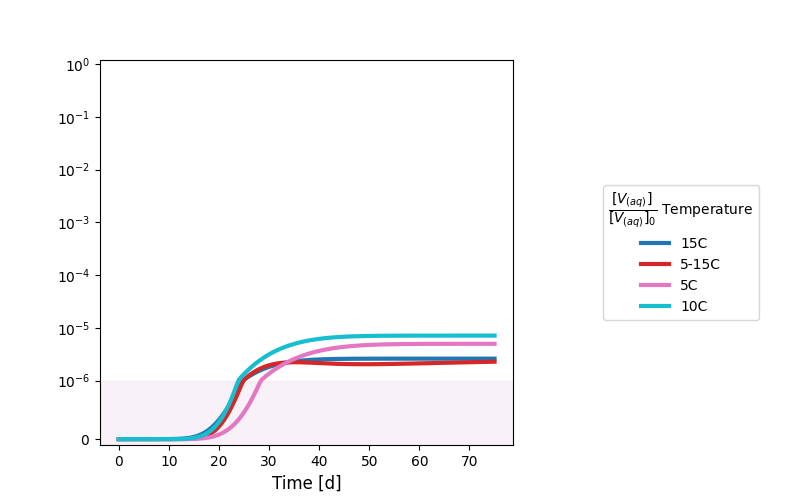
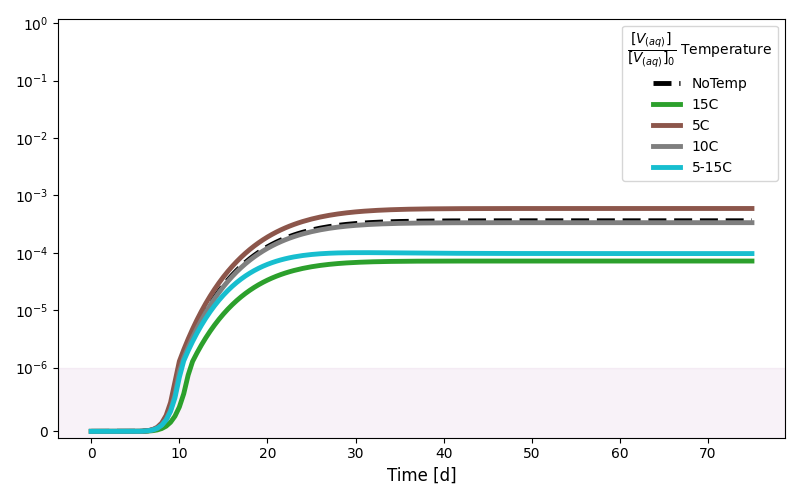
Updated thermal for constant viscosity and density

diff --git a/doeTests/3DCube_Thermal/miscellaneous/organizeResults.py b/doeTests/3DCube_Thermal/miscellaneous/organizeResults.py
@@ -16,7 +16,7 @@ TIME_COL_ID = 0
 # Fix those weird PFT headers
 system("./PFT2CSV.sh "+ FOLDER)
 fig = plt.figure(figsize=(8,5),facecolor="white")
-ax1 = plt.subplot2grid((2,3),(0,0),rowspan=2,colspan=2)
+ax1 = plt.subplot2grid((2,2),(0,0),rowspan=2,colspan=2)
 #ax2 = plt.subplot2grid((2,3),(1,0),rowspan=1,colspan=2,sharex=ax1)
 
 # Number of colors to plots
@@ -24,11 +24,20 @@ cmap = get_cmap(len(listdir(FOLDER)))
 
 i=0
 for f in listdir(FOLDER):
+  if "NoTemp" in f:
+    VAQ_COL_ID = 3
+    LS = 'dashed'
+    COLOR = 'black'
+  else:
+    VAQ_COL_ID = 8
+    LS = 'solid'
+    COLOR = cmap(i)
+  
   ObservationPoint = np.genfromtxt(FOLDER+"/"+f, delimiter=',', skip_header=1)
   Cmax = 1.0E-20
   Cnorm = ObservationPoint[:,VAQ_COL_ID]/Cmax
   Time = ObservationPoint[:,TIME_COL_ID]
-  ax1.plot(Time,Cnorm,c=cmap(i),lw=3,label=f[20:-10])
+  ax1.plot(Time,Cnorm,c=COLOR,lw=3.5,ls=LS,label=f[22:-10])
   i+=1
 
 LegendTitle="$\\dfrac{[V_{(aq)}]}{[V_{(aq)}]_0}$"
@@ -37,7 +46,8 @@ ax1.set_yscale("symlog",linthresh=1.0E-6)
 ax1.set_ylim([-1.0E-7,1.2])
 ax1.axhspan(ymin=-1,ymax=1.0E-6,color="purple",alpha=0.05)
 ax1.set_xlabel("Time [d]",fontsize="large")
-ax1.legend(loc='center left', bbox_to_anchor=(1.2, 0.5),title=LegendTitle + " Temperature")
-
-plt.subplots_adjust(wspace=0.0, hspace=0.1)
+#ax1.legend(loc='center left', bbox_to_anchor=(1.2, 0.5),title=LegendTitle + " Temperature")
+ax1.legend(title=LegendTitle + " Temperature")
+plt.tight_layout()
+#plt.subplots_adjust(wspace=0.0, hspace=0.1)
 plt.savefig("./breakThermal.png",transparent=False)
